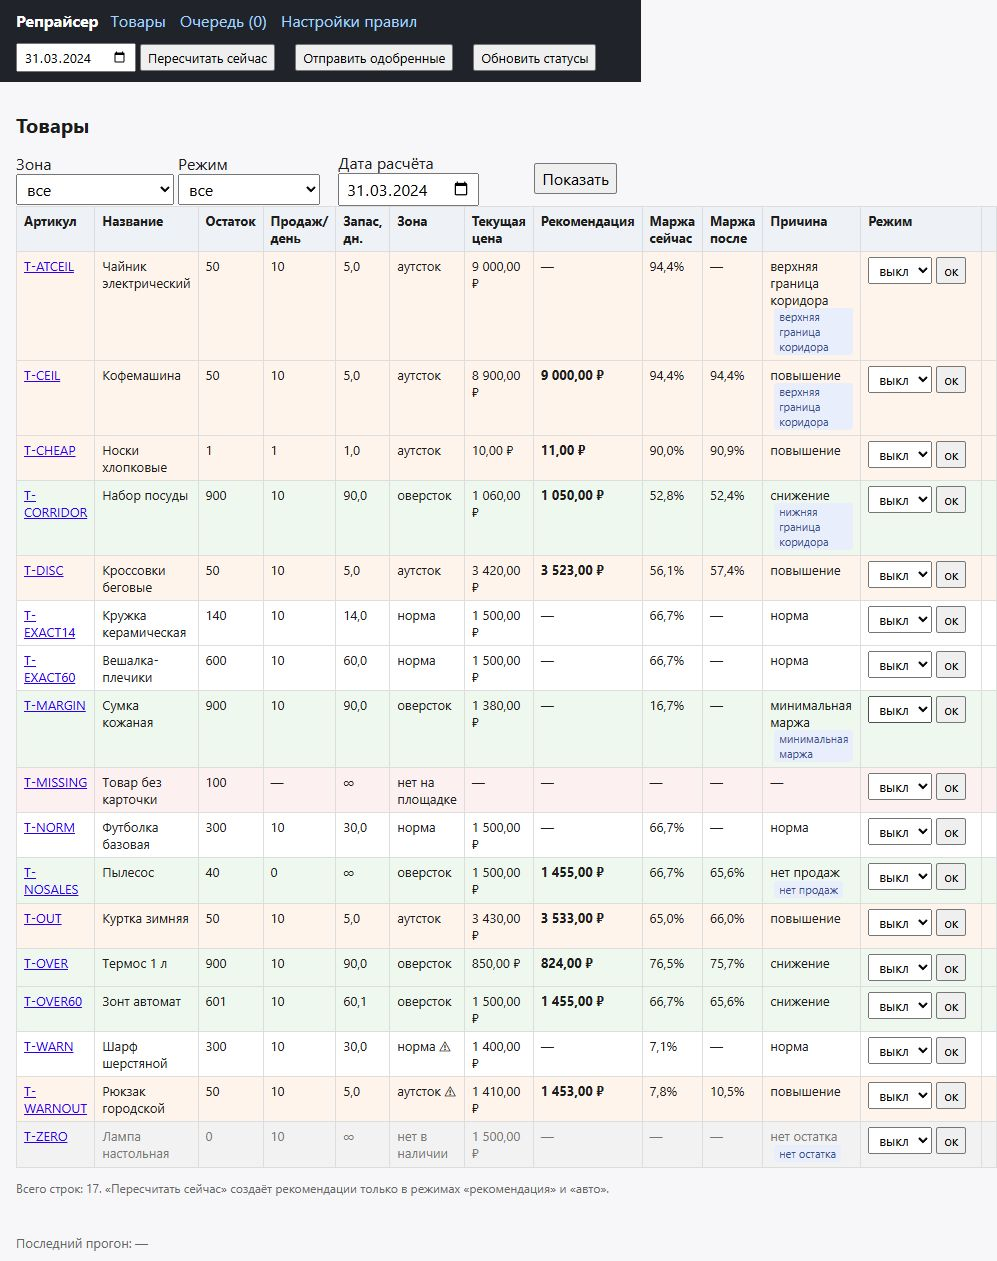
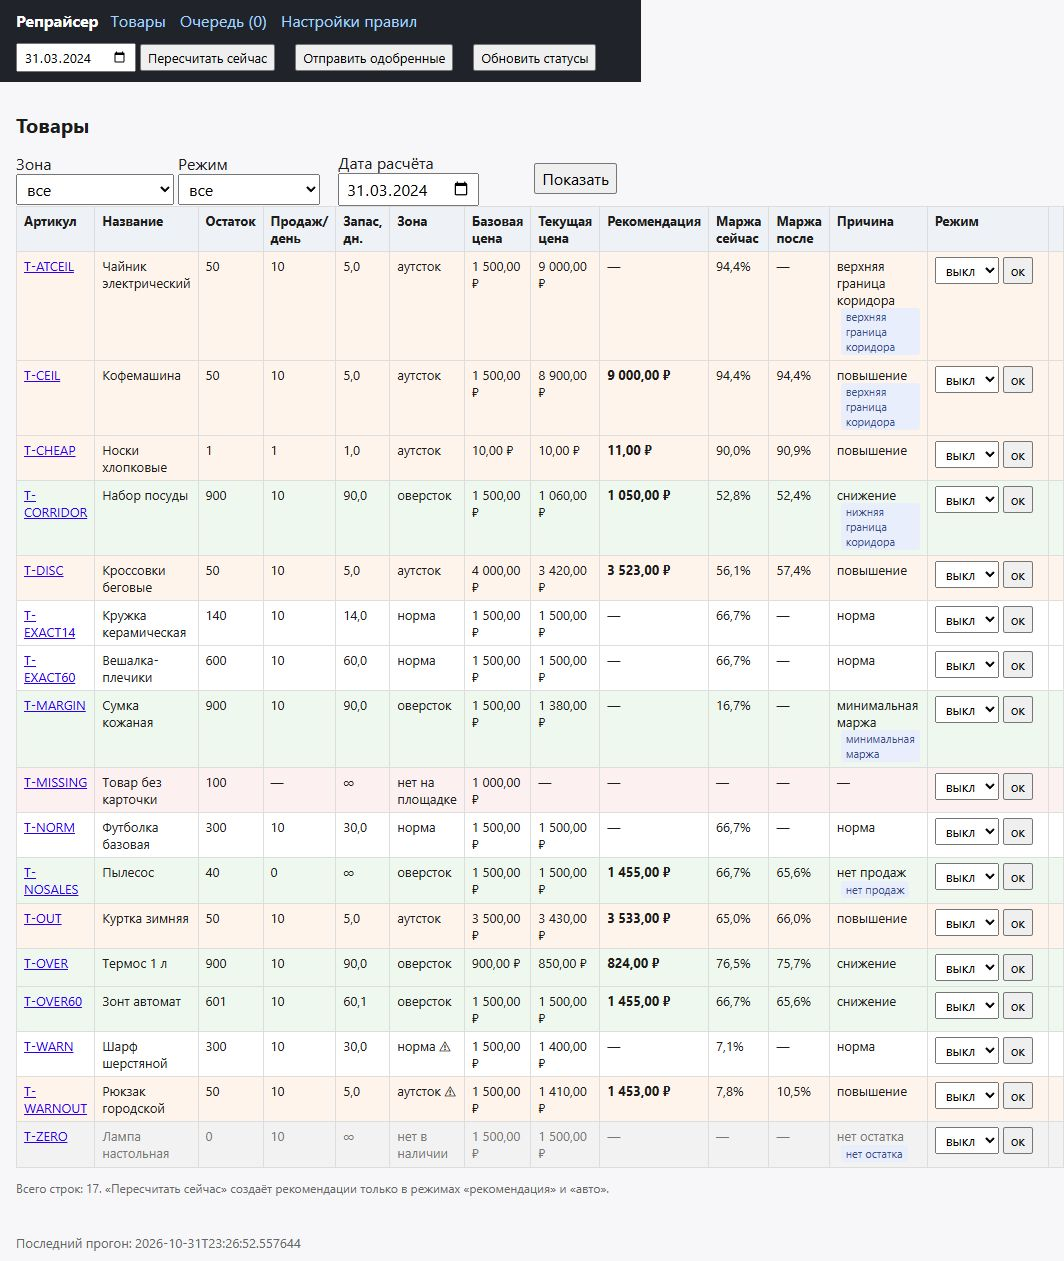
Колонка «Базовая цена» в таблице товаров
- базовая цена из учёта выводится перед текущей ценой
- тест проверяет наличие и порядок колонок
- обновлены скриншот сценария и инструкция по тестированию

diff --git a/src/repricer/web/templates/index.html b/src/repricer/web/templates/index.html
@@ -32,6 +32,7 @@
         <th>Продаж/день</th>
         <th>Запас, дн.</th>
         <th>Зона</th>
+        <th>Базовая цена</th>
         <th>Текущая цена</th>
         <th>Рекомендация</th>
         <th>Маржа сейчас</th>
@@ -50,6 +51,7 @@
         <td>{{ num(row.sales_per_day) }}</td>
         <td>{{ days(row.days_of_stock) }}</td>
         <td>{{ zone_label(row.zone) }}{% if row.margin_warning %} ⚠{% endif %}</td>
+        <td>{{ rub(row.base_price_kopecks) }}</td>
         <td>{{ rub(row.current_price_kopecks) }}</td>
         <td>{% if row.price_changed %}<b>{{ rub(row.recommended_price_kopecks) }}</b>{% else %}—{% endif %}</td>
         <td>{{ pct(row.margin_before) }}</td>

diff --git a/src/repricer/app/service.py b/src/repricer/app/service.py
@@ -464,6 +464,7 @@ class RepricerService:
                     "zone": decision.zone.value if decision else "not_on_market",
                     "sales_per_day": decision.sales_per_day if decision else None,
                     "days_of_stock": decision.days_of_stock if decision else None,
+                    "base_price_kopecks": snap.product.base_price_kopecks,
                     "current_price_kopecks": decision.current_price_kopecks if decision else None,
                     "recommended_price_kopecks": decision.recommended_price_kopecks if decision else None,
                     "margin_before": decision.margin_before_pct if decision else None,

diff --git a/tests/test_web.py b/tests/test_web.py
@@ -44,6 +44,8 @@ def test_index_shows_zones_and_states(tmp_path, start_emulator):
     assert "оверсток" in response.text
     assert "нет в наличии" in response.text
     assert "нет на площадке" in response.text
+    assert response.text.index("Базовая цена") < response.text.index("Текущая цена")
+    assert "3\u00a0500,00 ₽" in response.text  # базовая цена T-OUT из CSV
 
 
 def test_full_cycle_through_forms(tmp_path, start_emulator):

diff --git a/TESTING.md b/TESTING.md
@@ -269,9 +269,11 @@ Stop-Process -Id <PID> -Force
    `T-CEIL` — в верхнюю (1 500 × (100 + 500)% = 1 500 × 6 = 9 000).
 5. Минимальная маржа: `T-MARGIN` — снижение запрещено, причина «минимальная маржа»; `T-WARN`,
    `T-WARNOUT` — предупреждение ⚠ без блокировки.
-6. Округление: `T-CHEAP` 10 → 11, `T-OUT` 3 532,9 → 3 533 (вверх), `T-OVER` 824,5 → 824 (вниз,
+6. Базовая цена: колонка «Базовая цена» берётся из учёта (`T-OUT` 3 500, `T-OVER` 900,
+   `T-DISC` 4 000) и стоит перед текущей; от неё считается коридор.
+7. Округление: `T-CHEAP` 10 → 11, `T-OUT` 3 532,9 → 3 533 (вверх), `T-OVER` 824,5 → 824 (вниз,
    «в сторону шага»).
-7. Дата расчёта: в фильтре задать `2024-03-20`, «Показать» — в окно 07–20 марта попадают только
+8. Дата расчёта: в фильтре задать `2024-03-20`, «Показать» — в окно 07–20 марта попадают только
    18–20 (демо-продажи начинаются 18-го), продажи/день падают примерно до 2,1, запас растёт:
    `T-OUT` 5,0 → 23,3 дн. (норма), `T-EXACT14` 14,0 → 65,3 дн. (оверсток), `T-NORM` 30 → 140 дн.
    Вернуть `2024-03-31`.
